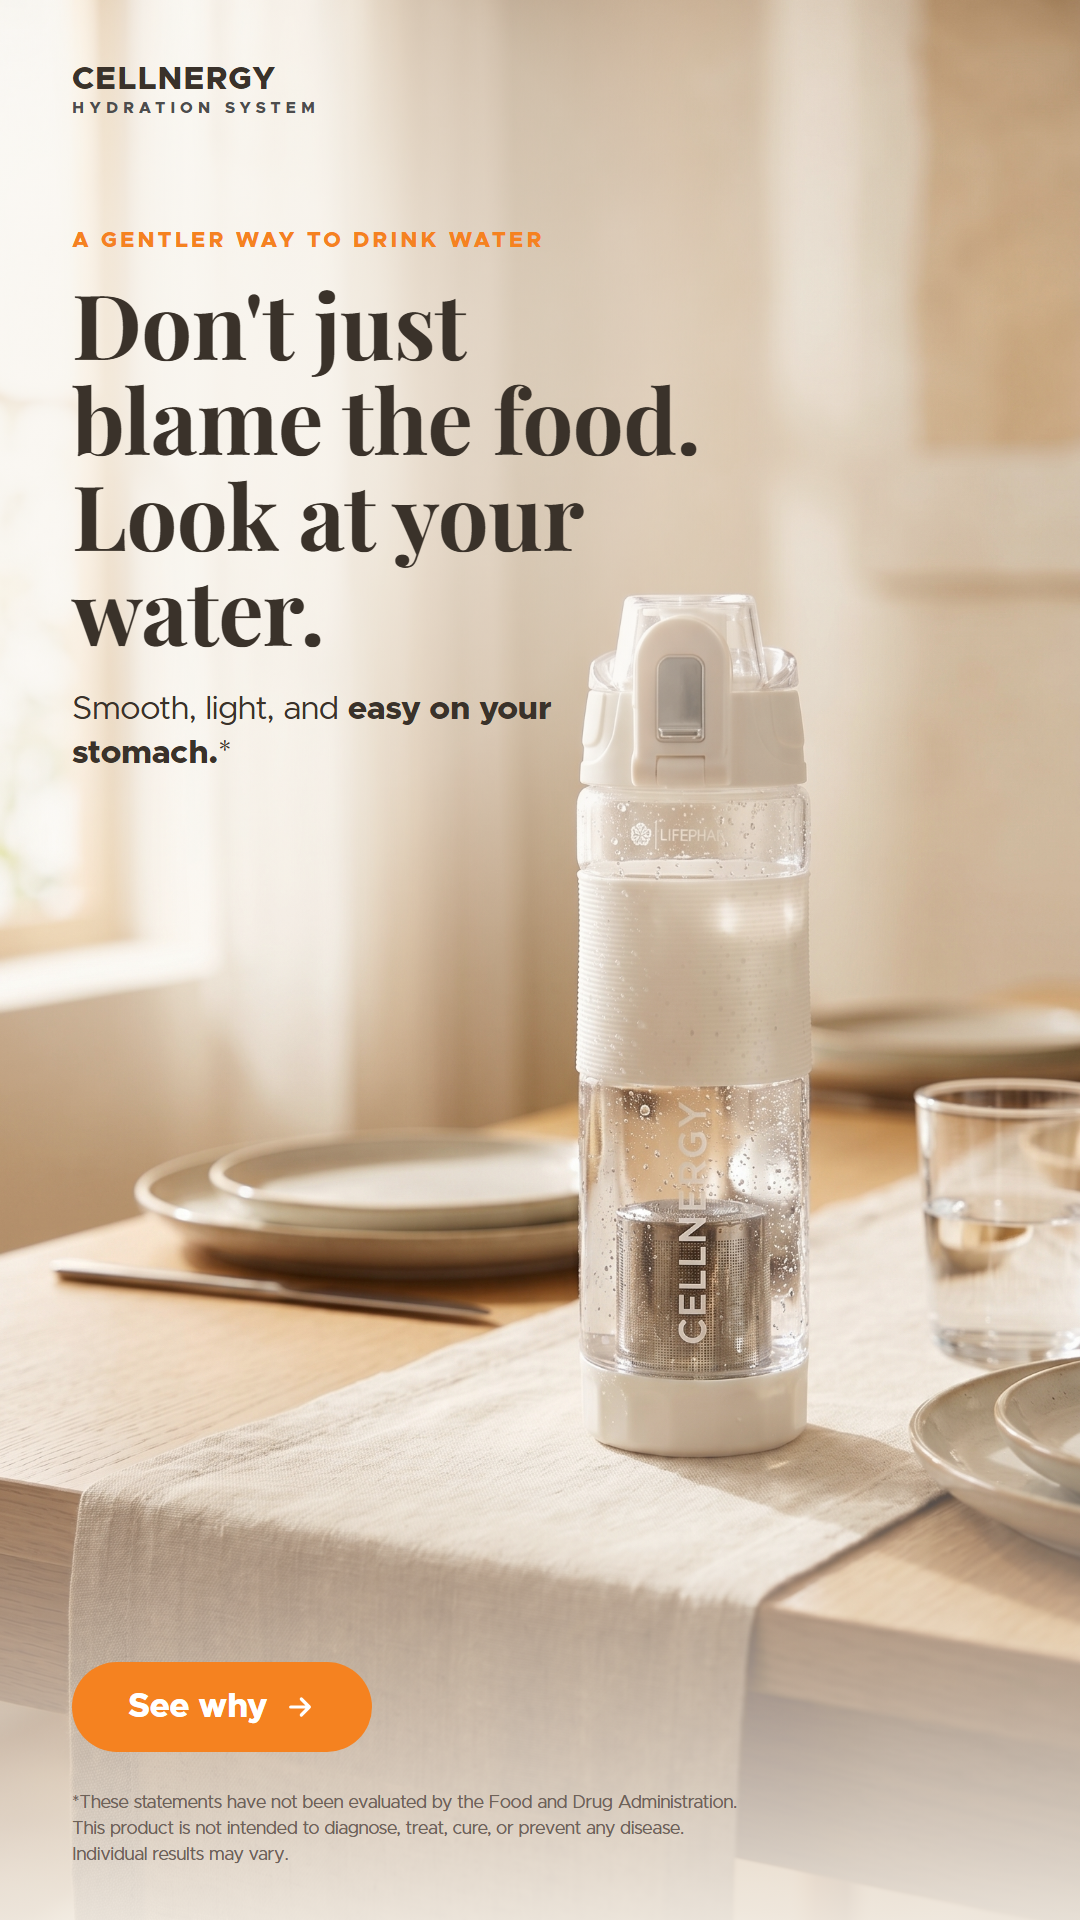
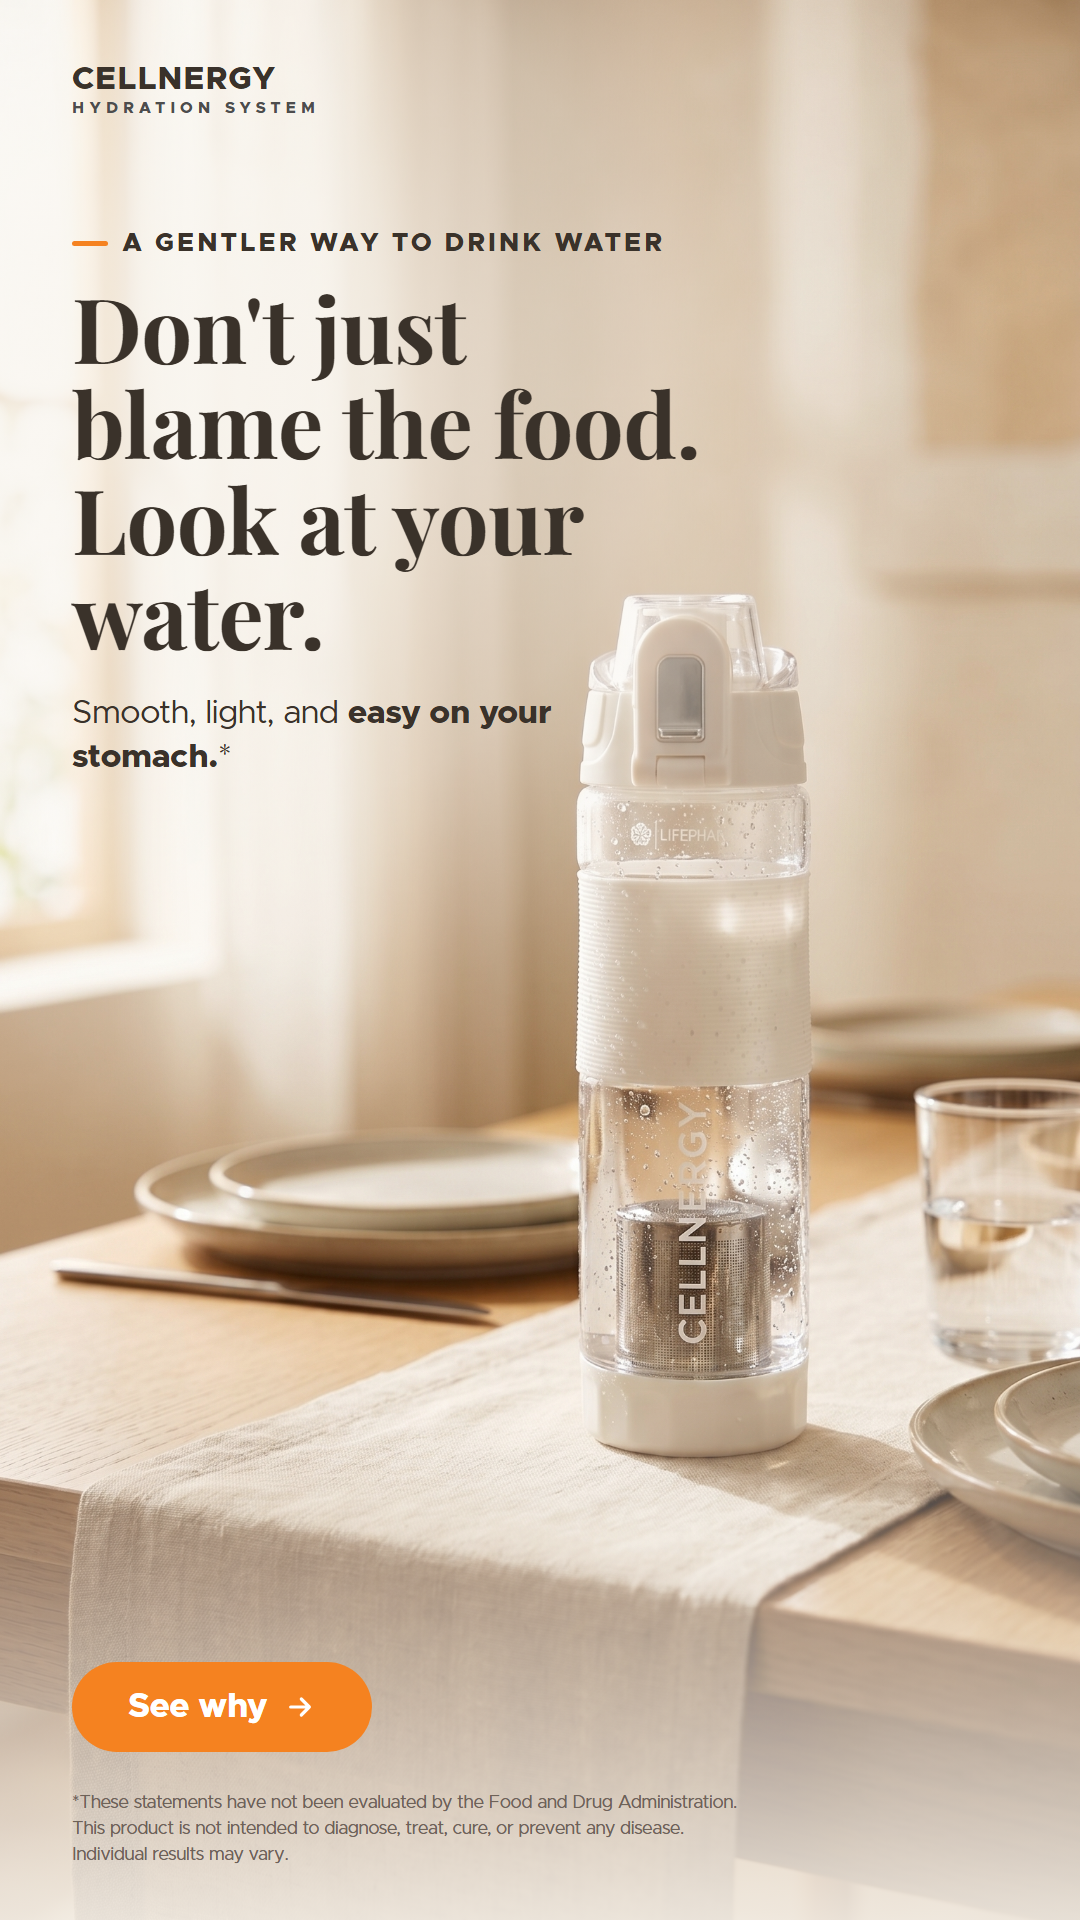
Terahertz visual on fresh filename to bust browser cache

diff --git a/ads/reflux-1a.html b/ads/reflux-1a.html
@@ -19,7 +19,8 @@
   .brand b{font-family:"Metropolis";font-weight:800;font-size:32px;letter-spacing:1px;color:var(--ink);}
   .brand span{display:block;font-family:"Metropolis";font-weight:600;font-size:16px;letter-spacing:5px;color:#4D4D4D;margin-top:4px;}
   .top{position:absolute;top:230px;left:72px;width:660px;}
-  .eyebrow{font-family:"Metropolis";font-weight:800;font-size:22px;letter-spacing:3px;text-transform:uppercase;color:var(--orange);margin-bottom:24px;}
+  .eyebrow{display:flex;align-items:center;gap:14px;font-family:"Metropolis";font-weight:800;font-size:26px;letter-spacing:3px;text-transform:uppercase;color:var(--ink);margin-bottom:24px;}
+  .eyebrow::before{content:"";width:36px;height:5px;border-radius:3px;background:var(--orange);}
   h1{font-family:"Playfair Display";font-weight:700;font-size:90px;line-height:1.06;letter-spacing:-.5px;color:var(--ink);}
   .support{margin-top:30px;font-family:"Metropolis";font-weight:400;font-size:33px;line-height:1.36;color:var(--ink);max-width:600px;}
   .support b{font-weight:800;}

diff --git a/ads/reflux-1b.html b/ads/reflux-1b.html
@@ -20,7 +20,8 @@
   .brand b{font-family:"Metropolis";font-weight:800;font-size:32px;letter-spacing:1px;color:var(--ink);}
   .brand span{display:block;font-family:"Metropolis";font-weight:600;font-size:16px;letter-spacing:5px;color:#4D4D4D;margin-top:4px;}
   .block{position:absolute;left:72px;right:72px;bottom:150px;}
-  .eyebrow{font-family:"Metropolis";font-weight:800;font-size:28px;letter-spacing:3px;text-transform:uppercase;color:var(--orange);margin-bottom:20px;}
+  .eyebrow{display:flex;align-items:center;gap:14px;font-family:"Metropolis";font-weight:800;font-size:26px;letter-spacing:3px;text-transform:uppercase;color:var(--ink);margin-bottom:20px;}
+  .eyebrow::before{content:"";width:36px;height:5px;border-radius:3px;background:var(--orange);}
   h1{font-family:"Metropolis";font-weight:800;font-size:70px;line-height:1.05;letter-spacing:-1px;color:var(--ink);}
   h1 .ser{font-family:"Playfair Display";font-weight:700;font-style:italic;letter-spacing:0;}
   .support{margin-top:24px;font-family:"Metropolis";font-weight:400;font-size:32px;line-height:1.34;color:var(--ink);max-width:780px;}

diff --git a/brain.html b/brain.html
@@ -260,7 +260,7 @@
           <div class="tbox-visual">
             <div class="card-chart cluster-card">
               <div class="cell-video">
-                <video id="cell-vid" src="assets/cell.mp4" poster="assets/cell.jpg" autoplay muted loop playsinline preload="metadata" aria-label="CELLNERGY conditioned water"></video>
+                <video id="cell-vid" src="assets/terahertz-brain.mp4" poster="assets/terahertz-brain.jpg" autoplay muted loop playsinline preload="auto" aria-label="CELLNERGY conditioned water"></video>
               </div>
               <p class="chart-foot result">The result: water that simply <strong>feels light and easy to drink</strong>.*</p>
             </div>